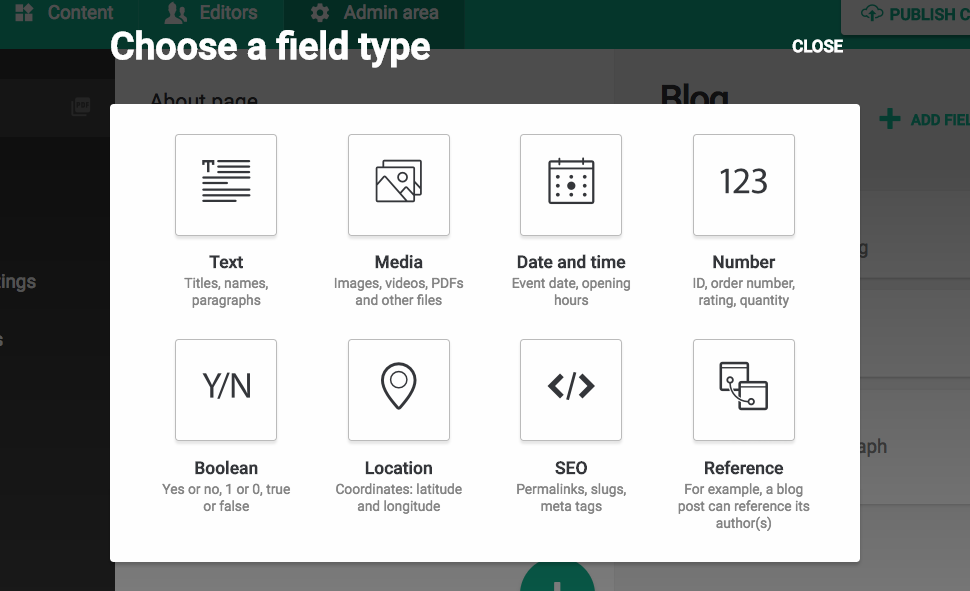
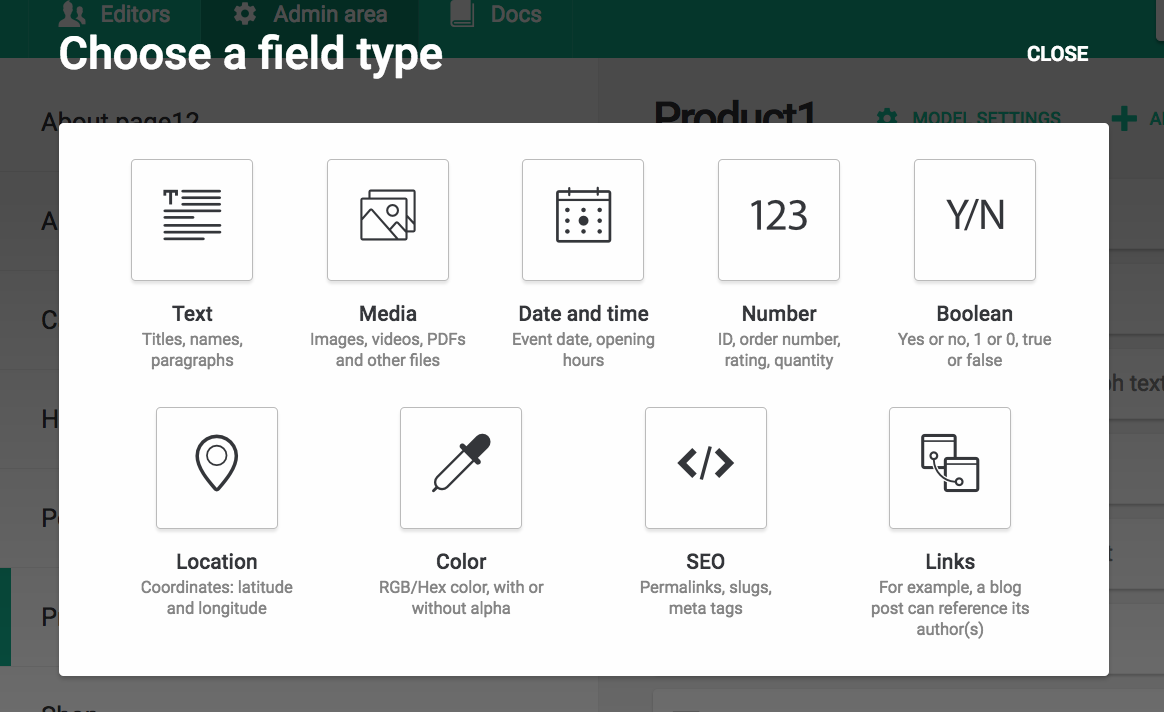
Add color field

diff --git a/src/schema/data-model.md b/src/schema/data-model.md
@@ -28,6 +28,7 @@ Each model consists of a set of <strong>fields</strong> that you define. Fields 
 * [**File attachment**](/other/fields.html#file-attachment-fields): To store any kind of document (PDF, ZIP, etc.).
 * [**Image**](/other/fields.html#image-fields) and [**Image gallery**](/other/fields.html#image-gallery-fields): To store one or more images (for sliders, carousels, etc.).
 * [**Video**](/other/fields.html#video-fields): To reference to an external YouTube/Vimeo video.
+* [**Color**](/other/fields.html#color-fields): For storing colors (with or without alpha channel).
 * [**Geolocation**](/other/fields.html#geolocation-fields): Coordinate values for storing the latitude and longitude of a physical location.
 * [**SEO meta tags**](/other/fields.html#seo-meta-tags-fields): To manage a page meta title, meta description, OpenGraph cards, etc.
 * [**Slug**](/schema/slug-permalinks.html): To generate a page permalink based on another textual field of the model.

diff --git a/src/metalsmith/fields.md b/src/metalsmith/fields.md
@@ -147,6 +147,30 @@ blogPost.gallery.forEach(image => {
 
 ---
 
+### Color fields
+
+*Color* fields expose the following methods:
+
+```javascript
+blogPost.color.red         // => 255
+blogPost.color.green       // => 127
+blogPost.color.blue        // => 0
+blogPost.color.alpha       // => 1.0
+blogPost.color.rgb         // => "rgb(255, 127, 0)"
+blogPost.color.hex         // => "#ff7f00"
+
+blogPost.color.toMap()     // => {
+                           //  red: 255,
+                           //  green: 127,
+                           //  blue: 0,
+                           //  alpha: 1.0,
+                           //  rgb: "rgb(255, 127, 0)",
+                           //  hex: "#ff7f00"
+                           // }
+```
+
+---
+
 ### Geolocation fields
 
 *Geolocation* fields expose the following methods:

diff --git a/src/jekyll/fields.md b/src/jekyll/fields.md
@@ -142,6 +142,30 @@ end
 
 ---
 
+### Color fields
+
+*Color* fields expose the following methods:
+
+```javascript
+blog_post.color.red        # => 255
+blog_post.color.green      # => 127
+blog_post.color.blue       # => 0
+blog_post.color.alpha      # => 1.0
+blog_post.color.rgb        # => "rgb(255, 127, 0)"
+blog_post.color.hex        # => "#ff7f00"
+
+blog_post.color.to_hash    # => {
+                           #  red: 255,
+                           #  green: 127,
+                           #  blue: 0,
+                           #  alpha: 1.0,
+                           #  rgb: "rgb(255, 127, 0)",
+                           #  hex: "#ff7f00"
+                           # }
+```
+
+---
+
 ### Geolocation fields
 
 *Geolocation* fields expose the following methods:
